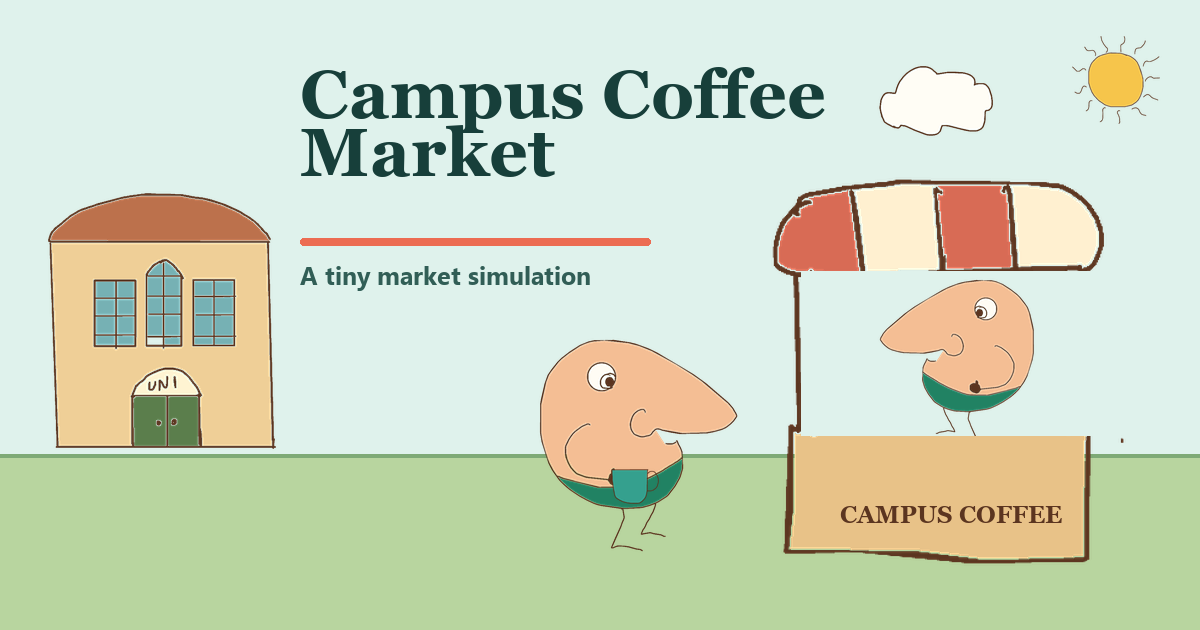
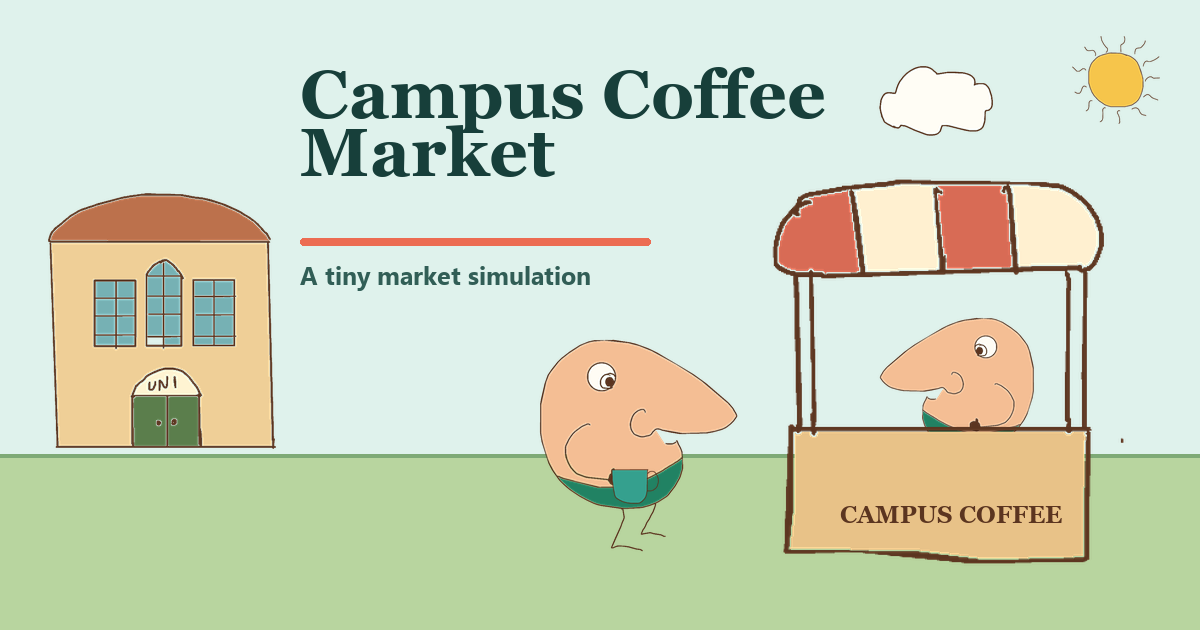
Fix Campus Coffee Market preview layering

Changed region(s): [[0.6475, 0.4222, 0.925, 0.6937]]

diff --git a/campus-coffee-market/index.html b/campus-coffee-market/index.html
@@ -9,14 +9,14 @@
     <meta property="og:description" content="Can a tiny market find its balance? Predict a shock, then watch buyers, coffee shops and prices adjust." />
     <meta property="og:type" content="website" />
     <meta property="og:url" content="https://rossmck94.github.io/campus-coffee-market/" />
-    <meta property="og:image" content="https://rossmck94.github.io/campus-coffee-market/social-preview.png" />
+    <meta property="og:image" content="https://rossmck94.github.io/campus-coffee-market/social-preview-v2.png" />
     <meta property="og:image:width" content="1200" />
     <meta property="og:image:height" content="630" />
     <meta property="og:image:alt" content="A hand-drawn customer buying coffee from a campus stall." />
     <meta name="twitter:card" content="summary_large_image" />
     <meta name="twitter:title" content="Campus Coffee Market" />
     <meta name="twitter:description" content="An interactive agent-based economics game for university open days." />
-    <meta name="twitter:image" content="https://rossmck94.github.io/campus-coffee-market/social-preview.png" />
+    <meta name="twitter:image" content="https://rossmck94.github.io/campus-coffee-market/social-preview-v2.png" />
     <meta name="twitter:image:alt" content="A hand-drawn customer buying coffee from a campus stall." />
     <title>Campus Coffee Market</title>
     <script type="module" crossorigin src="/campus-coffee-market/assets/index-DklvJVyX.js"></script>
